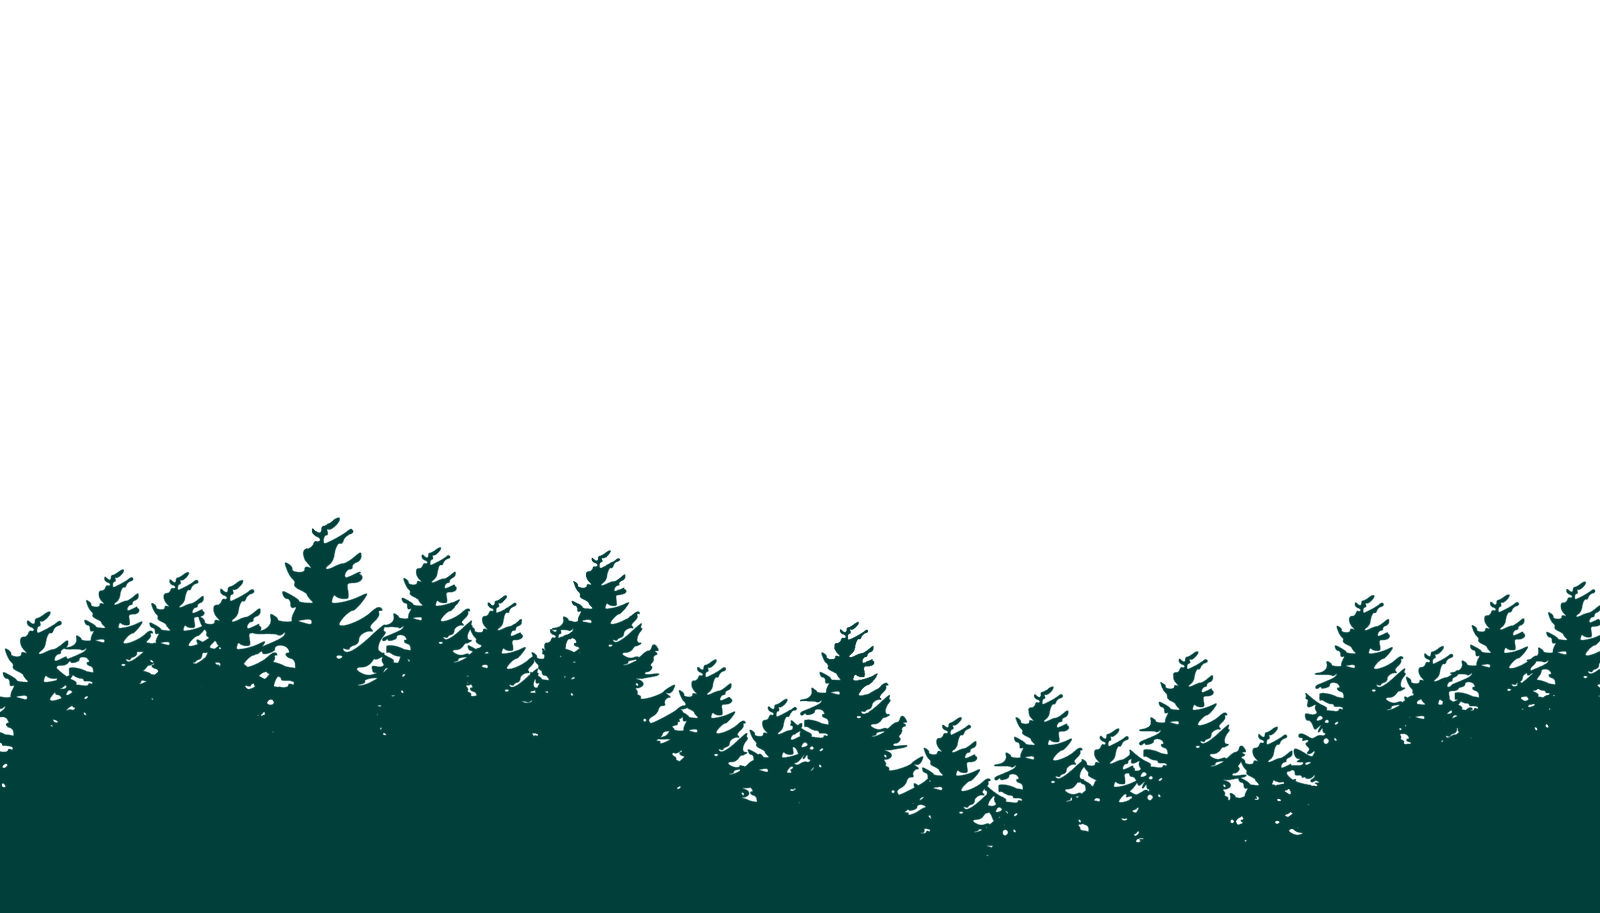
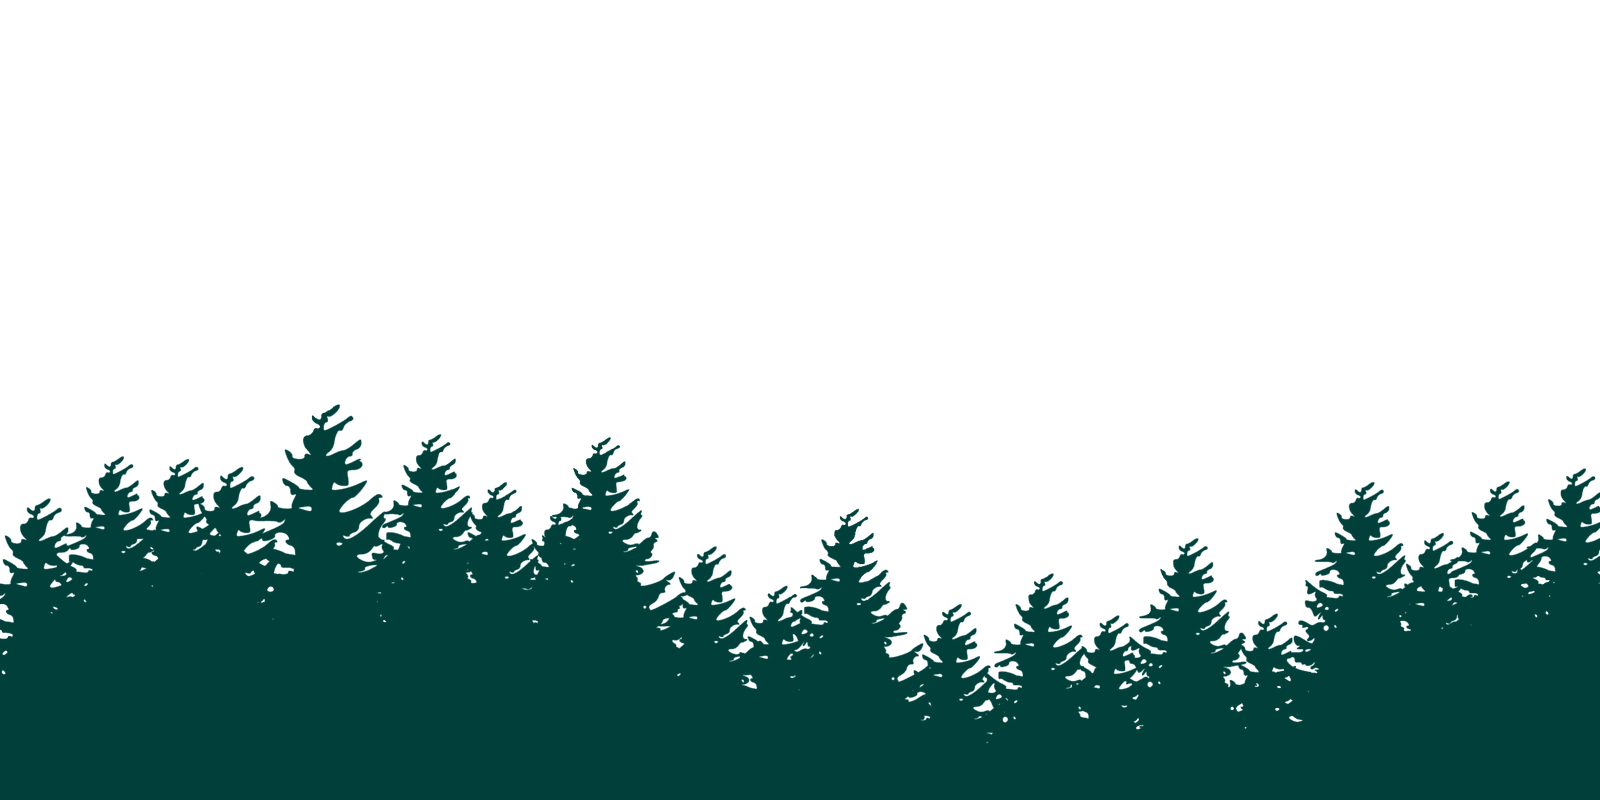
fixed modal - reviews and summary

Changed region(s): [[0.0, 0.5, 1.0, 0.9062]]

diff --git a/assets/css/style.css b/assets/css/style.css
@@ -6,6 +6,15 @@ body {
   color: #374345;
 }
 
+button {
+  background: #8aa9ae;
+  color: white;
+}
+
+button:hover {
+  background: #4f7b84;
+  color: white;
+}
 .header {
   font-size: 8em;
   font-weight: 300;
@@ -63,11 +72,13 @@ body {
 .parallax__layer--tree-2 {
         -webkit-transform: translateZ(-1px)scale(2);
     transform: translateZ(-1px)scale(2);
+    top: -50px;
 }
 
 .parallax__layer--tree-1 {
     -webkit-transform: translateZ(0);
     transform: translateZ(0);
+    top: -50px;
 }
 
 .block-layer {
@@ -89,8 +100,9 @@ body {
   background: white;
   -webkit-transform: translateZ(0);
   transform: translateZ(0);
-  top: 85%;
+  top: 70%;
   background: white;
+  padding-top: 10px;
 }
 
 .search-results {
@@ -151,7 +163,92 @@ body {
 }
 
 
-/*Divs for overall ratings*/
+
+/********************** SEARCH DIV FORMATTING ********************************/
+
+.search-div {
+  width: 80%;
+  text-align:center;
+  margin: 0 auto;
+}
+
+.search-div p{
+  font-size: 2.5em;
+  margin: 0;
+}
+
+.search-box {
+  width: 30vw;
+}
+
+#submit {
+  width: 69px;
+  padding: 0;
+  position: absolute;
+  margin-left: -69px;
+}
+
+#submit img {
+  width: 26px;
+}
+
+.container-4 label {
+  display: inline;
+}
+
+input[type="radio"] {
+  margin-left: 10px;
+  margin-right: 2px;
+}
+
+/************* MODAL *********************/
+.newTrailDescription {
+  display: none; /* Hidden by default */
+  position: fixed; /* Stay in place */
+  z-index: 1; /* Sit on top */
+  left: 0;
+  top: 0;
+  width: 100%; /* Full width */
+  height: 100%; /* Full height */
+  overflow: auto; /* Enable scroll if needed */
+  background-color: rgb(0,0,0); /* Fallback color */
+  background-color: rgba(0,0,0,0.4); /* Black w/ opacity */
+}
+
+.trail-info-container {
+  display: grid !important;
+  grid-template-rows: 1fr 1fr;
+  width: 600px;
+  margin: 10px auto;
+  background: white;
+  border-radius: 10px;
+  padding: 20px;
+}
+
+.comments {
+  grid-column: span 2;
+  justify-self: center;
+  align-self: center;
+}
+
+.map {
+  justify-self: center;
+  align-self: center;
+}
+
+.details{
+  justify-self: center;
+  align-self: center;
+  padding: 20px;
+}
+/********** MODAL - COMMENTS *************/
+.newCommentDiv {
+  display: grid !important;
+  grid-template-columns: 1fr 1fr 1fr;
+  justify-items: center;
+  align-items: center;
+}
+/********* MODAL - RATINGS & ICONS *******/
 .overall-rating {
   height: 30px;
   width: 100px;
@@ -190,89 +287,27 @@ body {
 
  .mtn-rating img {
   display: inline;
-  padding: 10px;
+  padding: 5px;
 }
 
-
-/*MODAL for trail descriptions */
-.newTrailDescription {
-  display: none; /* Hidden by default */
-  position: fixed; /* Stay in place */
-  z-index: 1; /* Sit on top */
-  left: 0;
-  top: 0;
-  width: 100%; /* Full width */
-  height: 100%; /* Full height */
-  overflow: auto; /* Enable scroll if needed */
-  background-color: rgb(0,0,0); /* Fallback color */
-  background-color: rgba(0,0,0,0.4); /* Black w/ opacity */
-}
-
-.trail-info-container {
-  display: grid !important;
-  grid-template-columns: 1fr 3fr 3fr;
-  grid-template-rows: 2fr 1fr;
-  width: 500px;
-  margin: 10vh auto;
-  background: white;
-  border-radius: 10px;
-  padding: 20px;
-}
-
-.comments {
-  grid-column: span 2;
-  justify-self: center;
-  align-self: center;
-}
-
-.map {
-  justify-self: center;
-  align-self: center;
-}
-
-.details{
-  justify-self: center;
-  align-self: center;
-}
-
-/********************** SEARCH DIV FORMATTING ********************************/
-
-.search-div {
-  width: 80%;
-  text-align:center;
-  margin: 0 auto;
-}
-
-.search-div p{
-  font-size: 2.5em;
-  margin: 0;
-}
-
-.search-box {
-  width: 30vw;
-}
-
-#submit {
-  width: 69px;
-  padding: 0;
-  position: absolute;
-  margin-left: -69px;
-  background: #8aa9ae;
-}
-
-#submit:hover {
+/************ FOOOTER ********************/
+.footer {
   background: #4f7b84;
+  color: white;
+  text-align: center;
+  padding: 15px;
+  margin-top: 30px
 }
 
-#submit img {
-  width: 26px;
+.footer p {
+  margin: 0;
+  font-size: 14px;
 }
 
-label {
-  display: inline;
+.footer a {
+  color: #98b9c2;
 }
 
-input[type="radio"] {
-  margin-left: 10px;
-  margin-right: 2px;
+.footer a:hover {
+  color: #bfdfde;
 }

diff --git a/assets/javascript/logic.js b/assets/javascript/logic.js
@@ -161,12 +161,12 @@ function getTrailInfo() {
           //includes mountian rating system, date, and comment inputs
           contentDivComments.html("<h2>Leave a Review</h2>" +
             //Main comment div
-            "<div class='newCommentDiv grid-3'>" +
+            "<div class='newCommentDiv'>" +
             "<div><label for='dateVisited'>Date Visited</label>" +
             "<input type='date' class='dateVisited' id='dateVisited" + i + "'>" +
             "</input></div>" +
             //Add div for mountains (rating system)
-            "<div class='mtn-rating'>" +
+            "<div class='mtn-rating'>" + "<label for='mtn-img'>Rating</label>" +
             "<img class='mtn-img' value='1' src='assets/images/mtn-1.png'>" +
             "<img class='mtn-img' value='2' src='assets/images/mtn-1.png'>" +
             "<img class='mtn-img' value='3' src='assets/images/mtn-1.png'>" +
@@ -175,8 +175,8 @@ function getTrailInfo() {
             //div for user comments
             +
             "<div><label for='userComment'>Comments</label>" +
-            "<input type='text' class='userComment' id='userComment" + i + "'>" +
-            "</div></div><button class='addComment' name='" + currentTrail.name +
+            "<textarea rows='4' cols='30' class='userComment' id='userComment" + i + "'></textarea>" +
+            "</div></div><button class='addComment u-full-width' name='" + currentTrail.name +
             "'>Add Comment</button>" +
             "<h2>User Comments</h2><div class='user-reviews' prevcomment='" + currentTrail.name.split(' ').join('') + "'>");
 
@@ -233,9 +233,9 @@ function submissionCallback() {
         getTrailInfo();
       });
     // Scroll the user down to search results
-    $('html, body').animate({
-      scrollTop: $("#search-results").offset().top
-    }, 2000);
+    // $('html, body').animate({
+    //   scrollTop: $("#search-results").offset().top
+    // }, 2000);
   }
 };
 
@@ -301,7 +301,7 @@ function addRatings() {
   database.ref(trailID + "/comments").on("child_added", function(snapshot) {
     //create a div to hold the comment
     //add the date and the comment
-    var newComment = $("<div class='grid-3 user-comment'>").html("<div>" + snapshot.val().date +
+    var newComment = $("<div class='user-comment'>").html("<div>" + snapshot.val().date +
       "</div><div>" + snapshot.val().comment + "</div>");
     //Add the new rating visually with mountains
     var newRating = $("<div>");

diff --git a/index.html b/index.html
@@ -71,11 +71,13 @@
 				<!-- footer -->
 				<div class="footer">
 
-
-					<p>Photo Credit: <a href="https://unsplash.com/@ahmadkadhim" class="credit-link">Ahmad Kadhim</a> & Powered by <a href="https://maps.google.com" class="credit-link">Google Maps</a>, <a href="https://openweathermap.org/" class="credit-link">Open Weather Map</a>,
-						and <a href="https://www.hikingproject.com/" class="credit-link">Hiking Project</a></p>
-						<div>Icons made by <a href="https://www.flaticon.com/authors/smashicons" title="Smashicons">Smashicons</a> from <a href="https://www.flaticon.com/" title="Flaticon">www.flaticon.com</a> is licensed by <a href="http://creativecommons.org/licenses/by/3.0/" title="Creative Commons BY 3.0" target="_blank">CC 3.0 BY</a></div>
-					<p>Copyright 2018 by Hillary Scofield</p>
+					<p>Copyright 2018 by Hillary Scofield.Powered by <a href="https://maps.google.com" class="credit-link">Google Maps</a>,
+						<a href="https://openweathermap.org/" class="credit-link">Open Weather Map</a>,
+						and <a href="https://www.hikingproject.com/" class="credit-link">Hiking Project</a>.
+					Free Vectors via <a href="https://www.Vecteezy.com/">vecteezy.com</a>. Icons made by <a href="https://www.flaticon.com/authors/smashicons" title="Smashicons">Smashicons</a>
+						from <a href="https://www.flaticon.com/" title="Flaticon">www.flaticon.com</a> is licensed by
+						<a href="http://creativecommons.org/licenses/by/3.0/" title="Creative Commons BY 3.0" target="_blank">
+							CC 3.0 BY</a></p>
 
 
 				</div>
